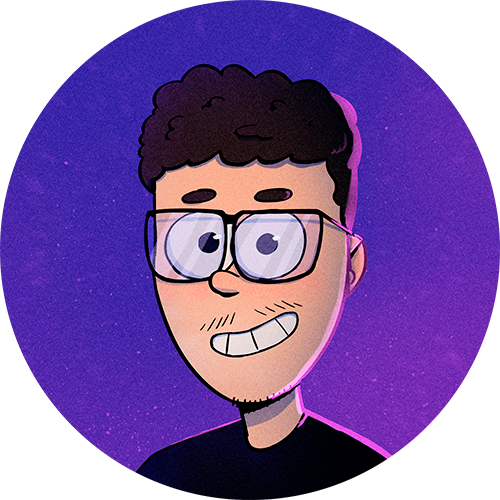
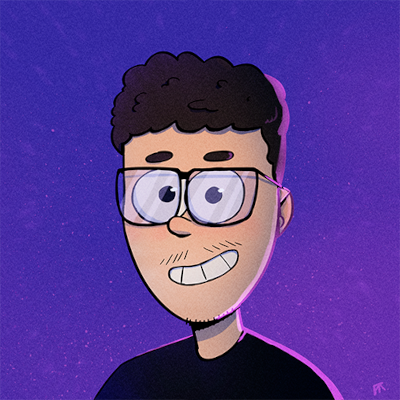
mudando imagens

diff --git a/src/app/layout.tsx b/src/app/layout.tsx
@@ -13,7 +13,7 @@ export const metadata = {
   title: 'Gabriel Borges',
   description: 'Gabriel Borges - CV',
   icons: {
-    icon: '/borges_drawing.png'
+    icon: '/borges_icon.png'
   }
 };
 
